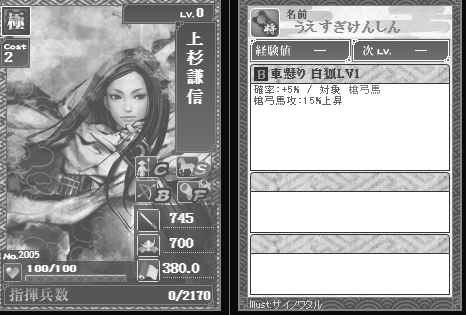
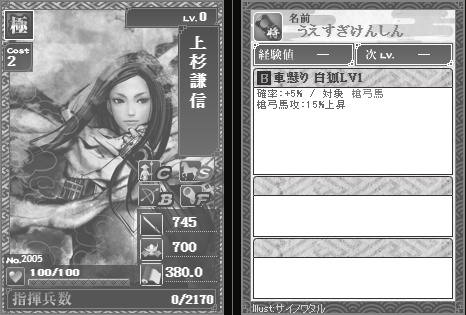
承認済み画像を型にして位置を合わせる(No.2005 のずれを直す)
うぐさんから「まだじゃっかんずれてんな」。実際にずれていた。

■ ずれの正体
No.2005 の正しい基点は **(17,19)**。PR #126 の判定は (20,23) を返しており、
右に3px・下に4pxずれていた。

■ 平均した型が悪かった
#126 では承認済み1013枚の輪郭を足し合わせた型(card_frame_mask.png)を使ったが、
**飾り帯が10pxおきの繰り返し柄**なので横に10pxずれても点数が同じになる。
全面で合わせると一致56%、繰り返さない部分に絞っても97%止まりで、
白黒の No.2005 では実際に外した。**この型は捨てる。**

■ 承認済みの実物を型にする
**同じレアリティの承認済み画像の左上(飾り帯+レアリティのバッジ)をそのまま型にして、
元画像から探す。** 左上は同じレアリティなら1ドットまで同じ。
承認済みの極8枚を型にしたところ、**8枚とも (17,19)** で一致した。
切り抜き直した画像を承認済みの極8枚と突き合わせて、**8/8でずれ0**を確認。
目でも飾り帯とバッジの位置が揃っていることを確かめた。

型が割れたときは切らずに止める。ずれたまま登録するより良い。

■ 途中で分かったこと
**承認済み画像の並びは揃っていない。** レアリティごとに飾りの高さが違い
(極はバッジがy=1、特と上はy=5、序はy=6)、同じレアリティの中でも
ハート基準の式と(-3,-4)ずれているものが2割ある。
そのため「承認済み画像どうしの平均」を正解として使うことはできない。
**同じレアリティの実物と1対1で突き合わせるのが確実。**

カラーのときは従来どおりハートを先に使うので、既存の挙動は変えていない。
監査0件 / ページのエラー0件。

diff --git a/tools/crop_card.py b/tools/crop_card.py
@@ -145,50 +145,83 @@ def find_heart_bottom(im, xlimit):
 # これまでの位置合わせはカード左下の**赤いハート**を探していたので、
 # 白黒だと赤が消えて一切効かない。**色に頼らない目印が要る。**
 #
-# 使うのは「カードの枠・箱・固定の文字」の形。承認済みの元画像1013枚を
-# ハート基準で正しく切り抜き、輪郭の強さを足し合わせて作った面(card_frame_mask.png)を
-# 滑らせ、いちばん合う位置を基点とする。カードの絵は1枚ごとに違うので
-# 足すと消え、全カード共通の形だけが残る。
+# やり方: **同じレアリティの承認済み画像の左上をそのまま型にして、元画像から探す。**
+# 左上には飾り帯とレアリティのバッジがあり、同じレアリティなら1ドットまで同じ。
+# 当たった位置がそのまま切り抜きの基点になる。
 #
-# **枠の縁は使わない。** 縁は同じ模様が10pxおきに続くので、そこに合わせると
-# 10pxずれても点数が同じになる(実測: 一致56%、±10pxのずれが41%)。
-# 繰り返さないもの(アイコン・数値の桁・指揮兵数の帯)だけを窓で切って使う。
-# その窓に絞ったら承認済み1024枚に対して**一致97.0%**になった。
-# 外れた31枚はほとんどが傑(レイアウトが別物・全13枚)と、
-# ハート側の検出がそもそも外れていたもの。
-FRAME_MASK = pathlib.Path(__file__).with_name("card_frame_mask.png")
-FRAME_HINT = (20, 24)   # だいたいこの辺という当たり。ここから±26を探す
-FRAME_SPAN = 26
+# **平均した型は使わない。** 一度、承認済み1013枚の輪郭を足し合わせた型を作って
+# 試したが、飾り帯が10pxおきの繰り返し柄なので横に10pxずれても点数が同じになり、
+# 一致は56%しかなかった。繰り返さない部分に絞っても97%止まりで、白黒の No.2005 では
+# 実際に(20,23)と外した(正解は(17,19))。**承認済みの実物を型にすると8枚中8枚が
+# (17,19)で一致した。** レアリティごとに飾りの形が違うので、同じレアリティで比べる。
+REF_MAX = 6          # 型に使う承認済み画像の枚数(多数決)
+REF_BOX = (0, 0, 60, 60)
+REF_SPAN = 60        # 元画像のこの範囲から探す
+DATA = pathlib.Path(__file__).resolve().parent.parent / "data"
 
 
-def _frame_mask():
-    if not FRAME_MASK.exists():
-        return None
-    return Image.open(FRAME_MASK).convert("L")
+def _same_rarity_refs(no):
+    """同じレアリティで、画像が登録済みの No. を集める。"""
+    here = None
+    for d in sorted(DATA.glob("busho*")):
+        if (d / ("%s.json" % no)).exists():
+            here = d
+            break
+    if here is None:
+        return []
+    out = []
+    for p in sorted(here.glob("*.json")):
+        n = p.stem
+        if n == str(no):
+            continue
+        if (DEST / ("no%s_full.png" % n)).exists():
+            out.append(n)
+        if len(out) >= REF_MAX:
+            break
+    return out
 
 
-def find_frame(im, hint=FRAME_HINT, span=FRAME_SPAN):
-    """枠の形から切り抜きの基点を求める。色は一切見ない。
+def _score(tpl, edge, ox, oy, w, h):
+    if ox < 0 or oy < 0 or ox + w > edge.size[0] or oy + h > edge.size[1]:
+        return -1
+    return ImageStat.Stat(ImageChops.multiply(
+        tpl, edge.crop((ox, oy, ox + w, oy + h)))).sum[0]
+
+
+def find_frame(im, no):
+    """同じレアリティの承認済み画像を型にして基点を求める。色は一切見ない。
 
     戻り値は ((left, top), None) か (None, 理由)。
     """
-    mask = _frame_mask()
-    if mask is None:
-        return None, "枠の型(card_frame_mask.png)が無い"
+    refs = _same_rarity_refs(no)
+    if not refs:
+        return None, "同じレアリティの承認済み画像が無いので型を作れない"
     edge = im.convert("L").filter(ImageFilter.FIND_EDGES)
-    W, H = mask.size
-    best = None
-    for oy in range(hint[1] - span, hint[1] + span + 1):
-        for ox in range(hint[0] - span, hint[0] + span + 1):
-            if ox < 0 or oy < 0 or ox + W > edge.size[0] or oy + H > edge.size[1]:
-                continue
-            s = ImageStat.Stat(ImageChops.multiply(
-                edge.crop((ox, oy, ox + W, oy + H)), mask)).sum[0]
-            if best is None or s > best[0]:
-                best = (s, ox, oy)
-    if best is None:
-        return None, "型を置ける場所が無い(元画像が小さい)"
-    return (best[1], best[2]), None
+    x0, y0, x1, y1 = REF_BOX
+    w, h = x1 - x0, y1 - y0
+    votes = {}
+    for r in refs:
+        tpl = (Image.open(DEST / ("no%s_full.png" % r)).convert("L")
+               .filter(ImageFilter.FIND_EDGES).crop(REF_BOX))
+        best = None
+        # 粗く探してから、その周りを1pxずつ詰める
+        for oy in range(0, REF_SPAN + 1, 3):
+            for ox in range(0, REF_SPAN + 1, 3):
+                s = _score(tpl, edge, ox, oy, w, h)
+                if best is None or s > best[0]:
+                    best = (s, ox, oy)
+        c = best
+        for oy in range(c[2] - 3, c[2] + 4):
+            for ox in range(c[1] - 3, c[1] + 4):
+                s = _score(tpl, edge, ox, oy, w, h)
+                if s > best[0]:
+                    best = (s, ox, oy)
+        votes[(best[1], best[2])] = votes.get((best[1], best[2]), 0) + 1
+    top = max(votes.items(), key=lambda kv: kv[1])
+    # **割れたら止める。** 揃わないまま切ると、ずれたまま登録される。
+    if top[1] * 2 <= len(refs):
+        return None, ("型%d枚の答えが割れた(%s)" % (len(refs), votes))
+    return top[0], None
 
 
 def crop_one(no, verbose=True, origin=None):
@@ -223,7 +256,7 @@ def crop_one(no, verbose=True, origin=None):
             else:
                 # 白黒のスクリーンショットではハートの赤が消えるので、
                 # ここに落ちる。**色ではなく形**で合わせ直す(find_frame)。
-                fr, ferr = find_frame(im)
+                fr, ferr = find_frame(im, no)
                 if fr:
                     left, top = fr
                     if (left >= 0 and top >= 0
